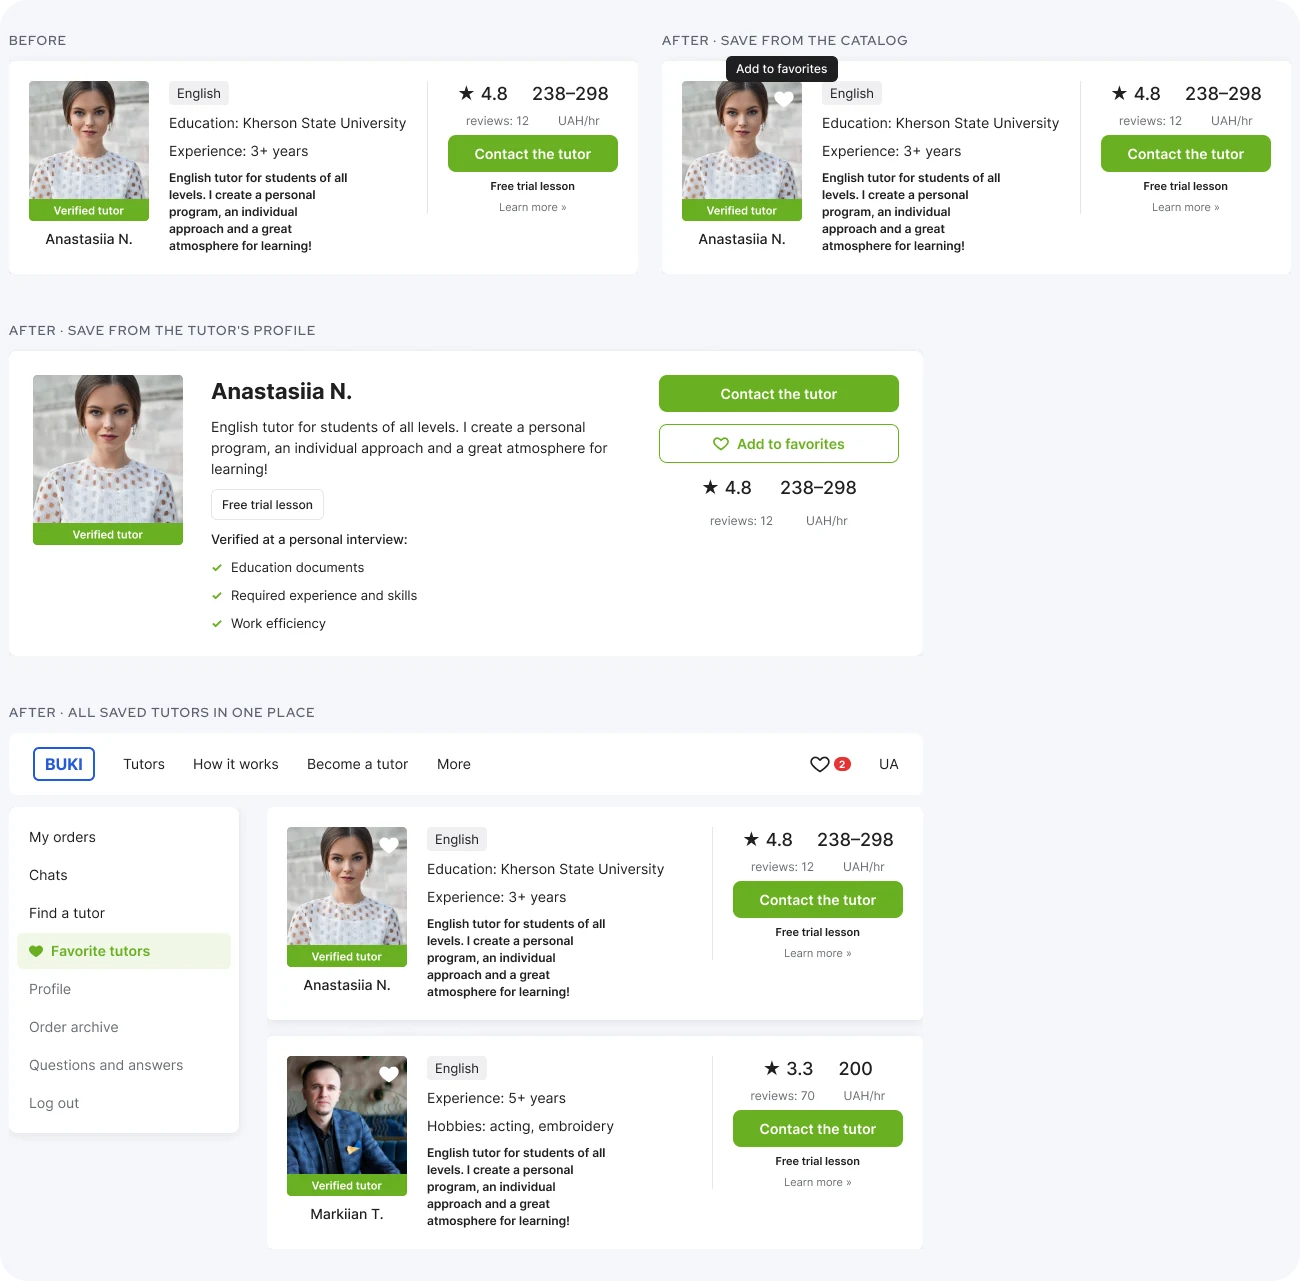
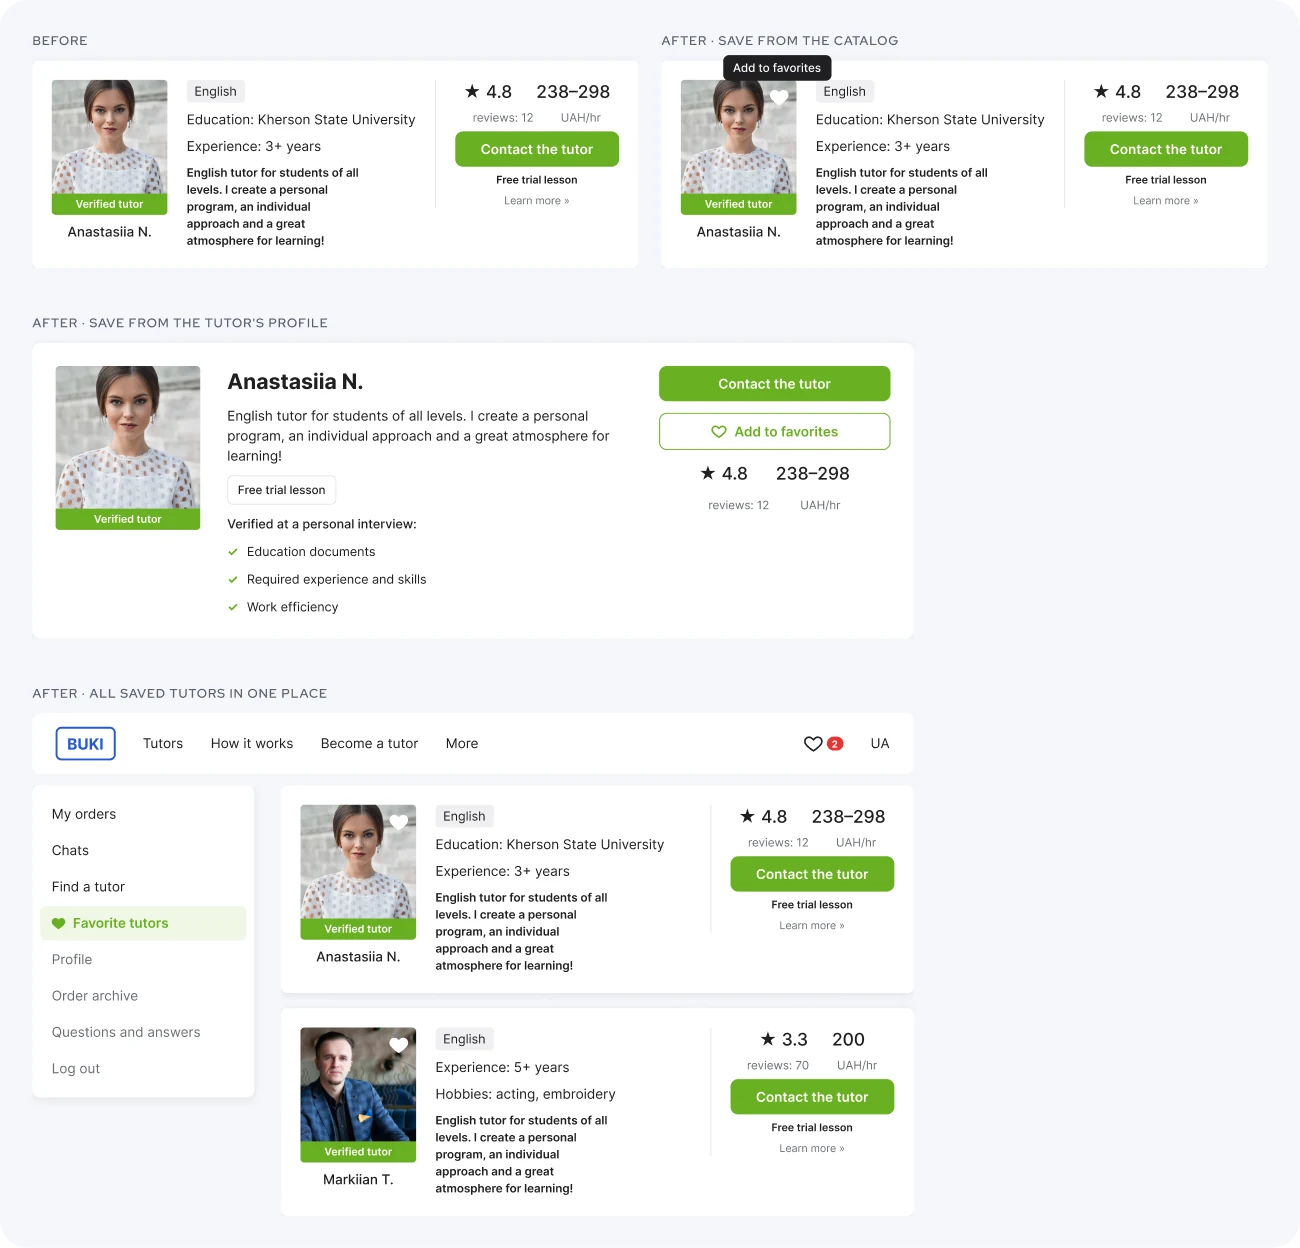
Fix mockup typos and Favorites crop; remove unused image
Claude-Session: https://claude.ai/code/session_01QSfqkG3CcgqCBBGUvRqYkB

diff --git a/buki.html b/buki.html
@@ -102,7 +102,7 @@
       <div><p class="eyebrow pink">From research</p><div class="quotes"><p class="quote">“It's hard to compare the teachers I like”</p><p class="quote">“It's difficult to find a pre-reviewed tutor when there are many tutors with the same name”</p></div></div>
       <div class="leads"><div><p class="eyebrow muted">Insight</p><p>There are many tutors, and it's hard to return to the profile of the one you liked.</p></div><div><p class="eyebrow">Solution</p><p>We proposed "Add to favorites" on the catalog page and on the tutor's page. Success criterion: conversion from favorites is higher than from the catalog.</p></div></div>
     </div>
-    <figure><img src="img/bk-favorites.webp" alt="Add to favorites in the catalog, profile and favorites list" width="1300" height="1281" loading="lazy"></figure>
+    <figure><img src="img/bk-favorites.webp" alt="Add to favorites in the catalog, profile and favorites list" width="1300" height="1248" loading="lazy"></figure>
   </section>
 
   <section class="block">
